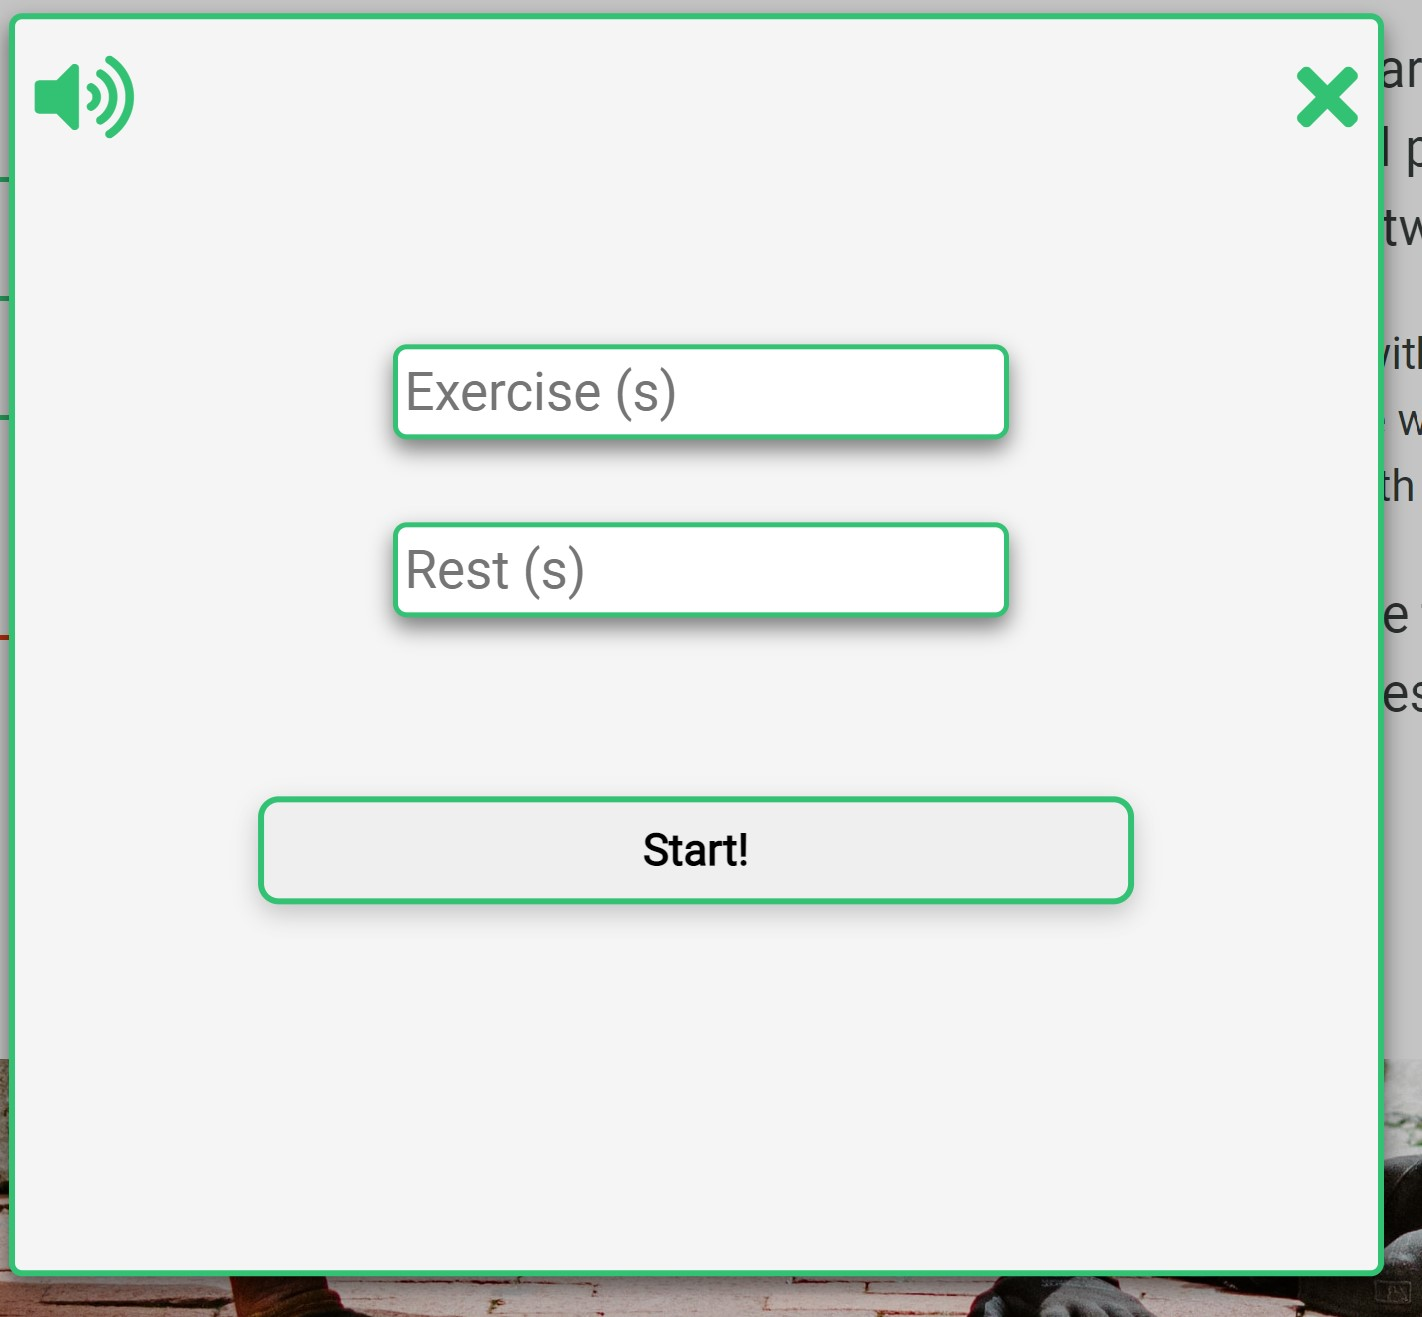
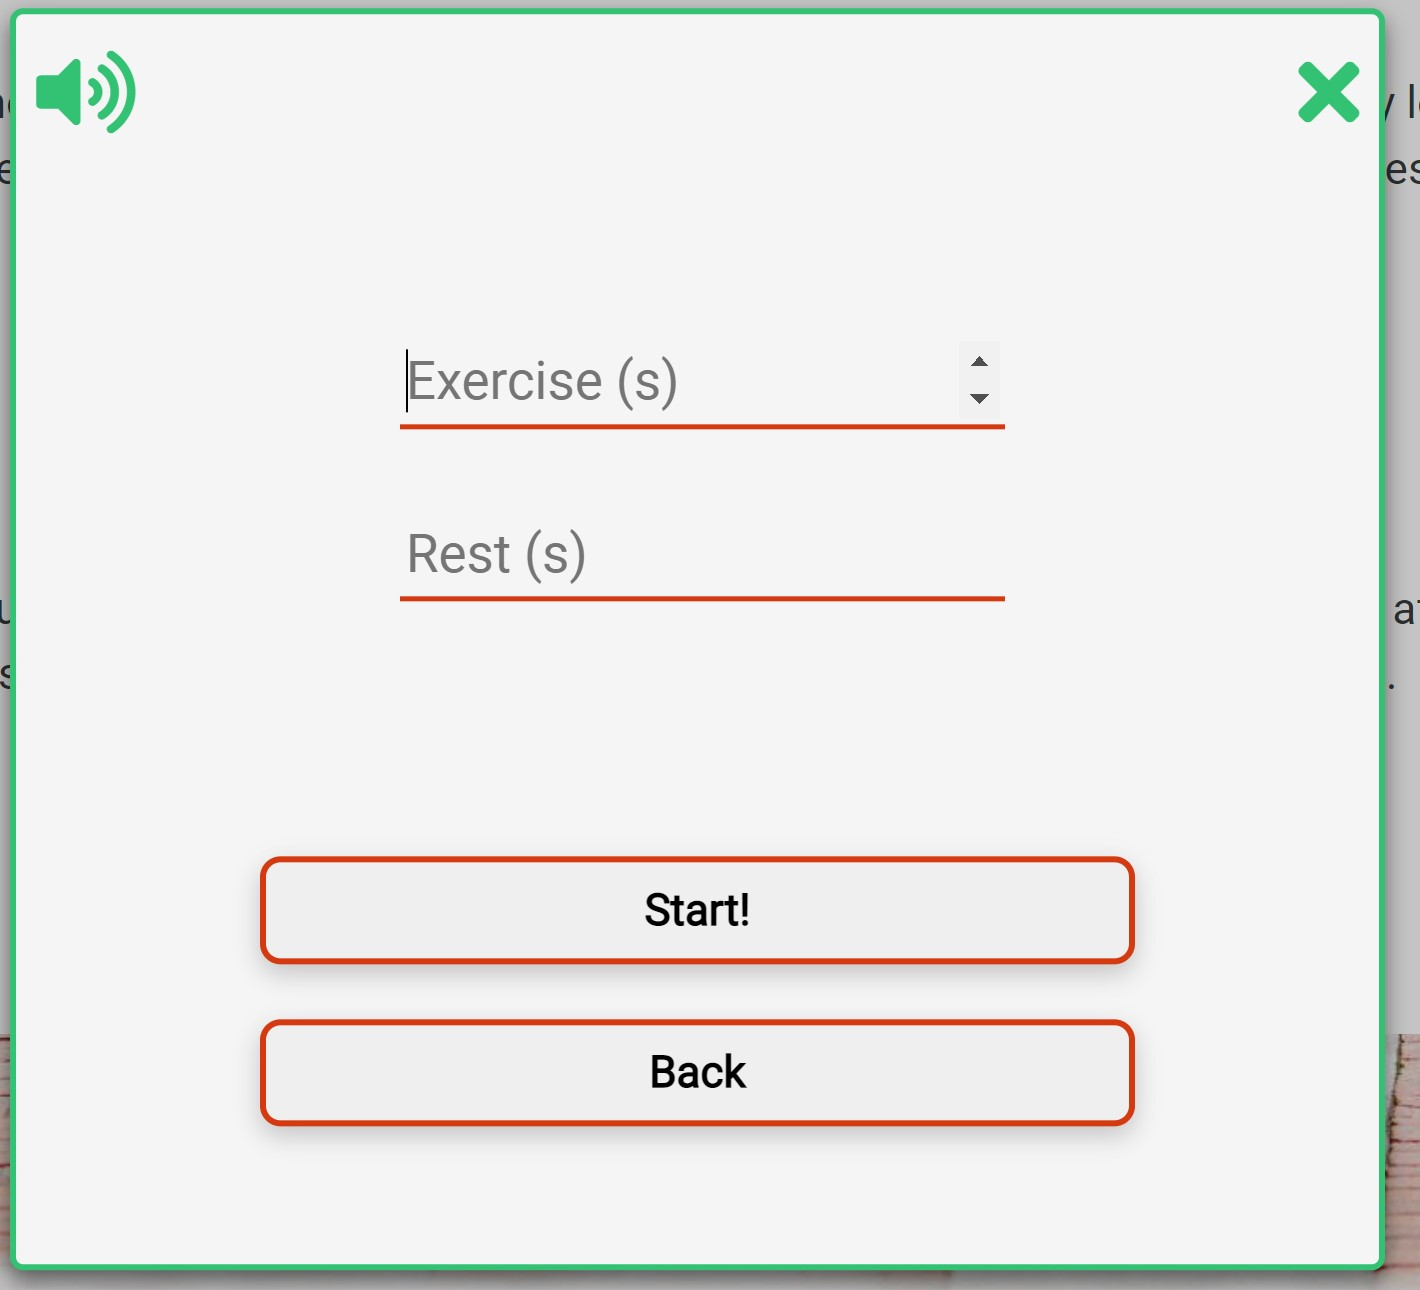
Added custom number input validation to interactive feedback section

diff --git a/README.md b/README.md
@@ -198,6 +198,11 @@ All font is 'Roboto' from the Google Fonts collection. This is a very typical fo
     - The 'Let's Go!!' button in the 'My Workout' section has a red border if the workout list is empty, but turns green after items have been added.
     ![Empty Workout](documentation/start_red.jpg)
     ![Non empty Workout](documentation/start_green.jpg)
+    - Number inputs in the custom workout section of the workout modal exhibit the same effects for the input bottom border colours and the start button which turns green once both inputs are valid.
+      - Invalid custom:
+      ![Invalid Custom Workout Screen](documentation/custom.jpg)
+      - Valid custom:
+      ![Valid Custom Workout Screen](documentation/valid_custom.jpg)
     - All items in the Feedback Form section exhibit the same effects for both the input bottom border colour and the button, which in this case is a submit button which only turns green once all form inputs are valid.
     - As the email input is only valid once it includes an @ symbol with content afterwards, I used a regex (regular expression) in my code to ensure that the border properties changed correctly.
       - Invalid Form due to email input
